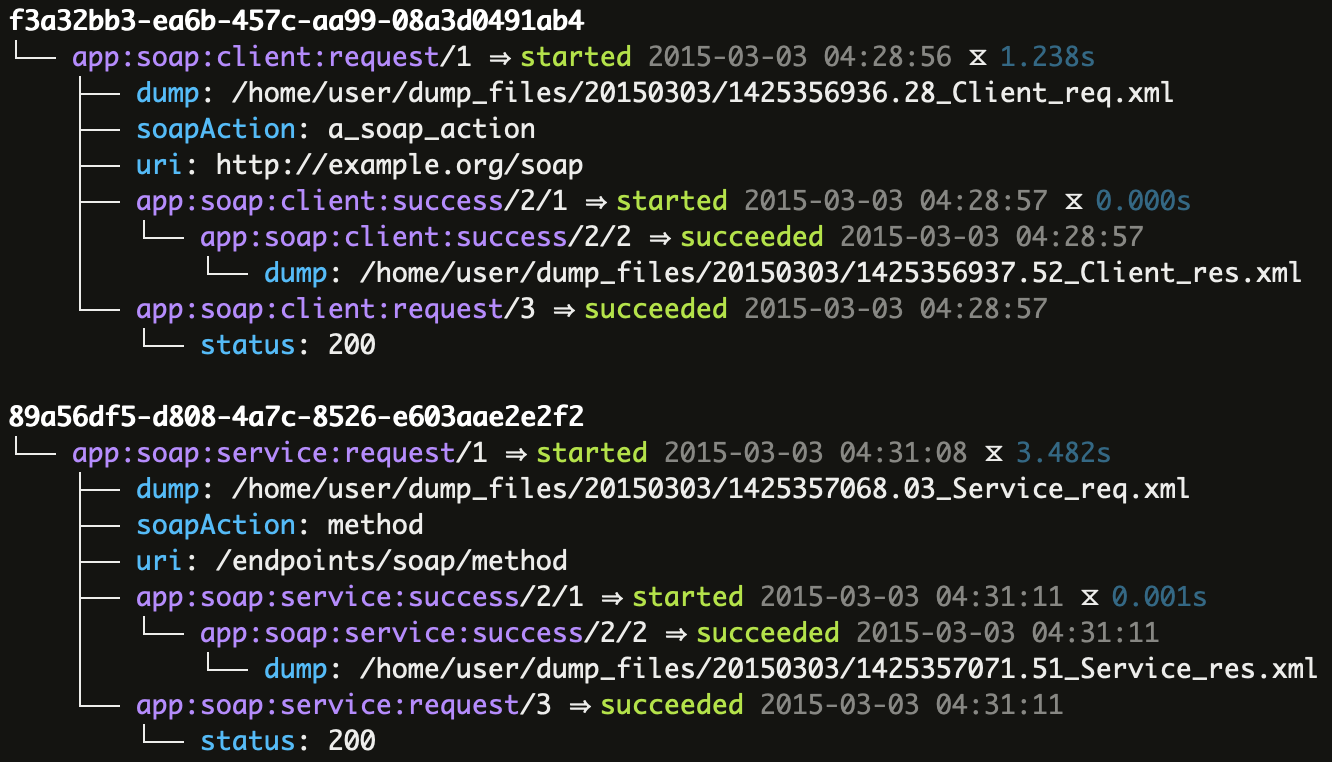
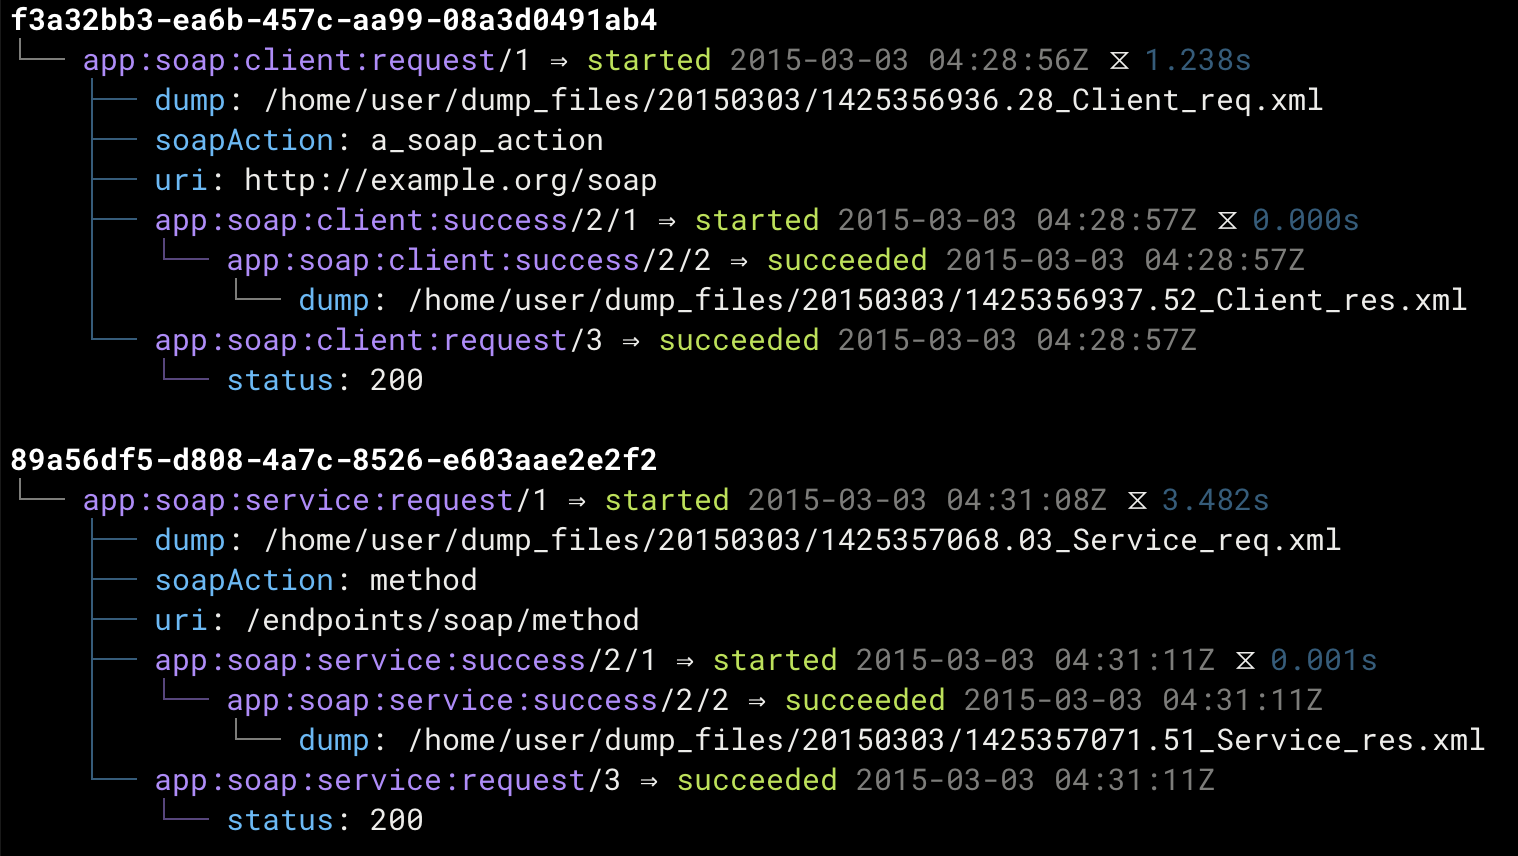
Update the README and screenshot.

Changed region(s): [[0.0, 0.5131, 0.985, 0.9961], [0.0, 0.0, 0.985, 0.4829]]

diff --git a/README.rst b/README.rst
@@ -77,10 +77,10 @@ Usage from the command-line
 .. code-block::
 
    $ eliot-tree
-   usage: eliot-tree [-h] [-u UUID] [-i KEY] [--raw]
-                     [--color {always,auto,never}] [--no-colorize] [-l LENGTH]
-                     [--select QUERY] [--start START] [--end END]
-                     [FILE [FILE ...]]
+   usage: eliot-tree [-h] [-u UUID] [-i KEY] [--raw] [--local-timezone]
+                  [--color {always,auto,never}] [--ascii] [--no-color-tree]
+                  [-l LENGTH] [--select QUERY] [--start START] [--end END]
+                  [FILE [FILE ...]]
 
    Display an Eliot log as a tree of tasks.
 
@@ -90,17 +90,19 @@ Usage from the command-line
    optional arguments:
      -h, --help            show this help message and exit
      -u UUID, --task-uuid UUID
-                           Select a specific task by UUID
+                           Select a specific task by UUID.
      -i KEY, --ignore-task-key KEY
                            Ignore a task key, use multiple times to ignore
                            multiple keys. Defaults to ignoring most Eliot
                            standard keys.
      --raw                 Do not format some task values (such as UTC
-                           timestamps) as human-readable
+                           timestamps) as human-readable.
      --local-timezone      Convert timestamps to the local timezone.
      --color {always,auto,never}
                            Color the output. Defaults based on whether the output
                            is a TTY.
+     --ascii               Use ASCII for tree drawing characters.
+     --no-color-tree       Do not color the tree lines.
      -l LENGTH, --field-limit LENGTH
                            Limit the length of field values to LENGTH or a
                            newline, whichever comes first. Use a length of 0 to
